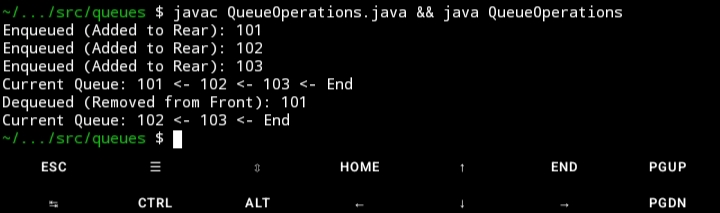
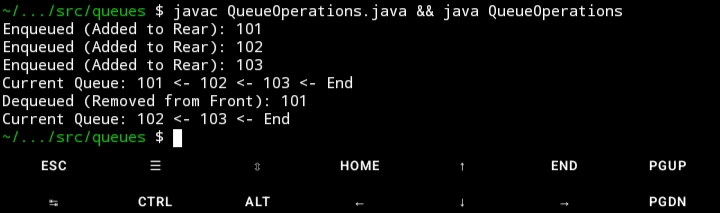
Day 4: Replace with final Queue execution proof (Enqueue, Dequeue)

diff --git a/README.md b/README.md
@@ -12,7 +12,7 @@ A systematic implementation of core Data Structures and Algorithms in Java. This
 - [x] Day 1: Arrays - Search, Insertion, Deletion, and Traversal logic. ✅ ![Proof](docs/arrays_run.jpg)
 - [x] Day 2: Singly Linked Lists - Node class, Beginning/End insertion, and Display. ✅ ![Proof](docs/linkedlists_run.jpg)
 - [x] Day 3: Stacks - Implementing LIFO logic using Linked Lists (Push, Pop, Peek). ✅ ![Proof](docs/stacks_run.jpg)
-- [x] Day 4: Queues - ✅ ![Proof](docs/queues_run.jpg)
+- [x] Day 4: Queues - Implementing FIFO logic using Linked Lists (Enqueue, Dequeue). ✅ ![Proof](docs/queues_run.jpg)
 - [x] Day 5: Searching algorithms - linear search, binary search. ✅ ![Execution Proof](docs/searching_run.jpg)
              : Sorting Algorithms - Bubble, Selection, Merge, and Quick Sort.
 - [ ] Day 6: Trees (Binary Tree) - Node logic and In-order, Pre-order, Post-order traversals.
